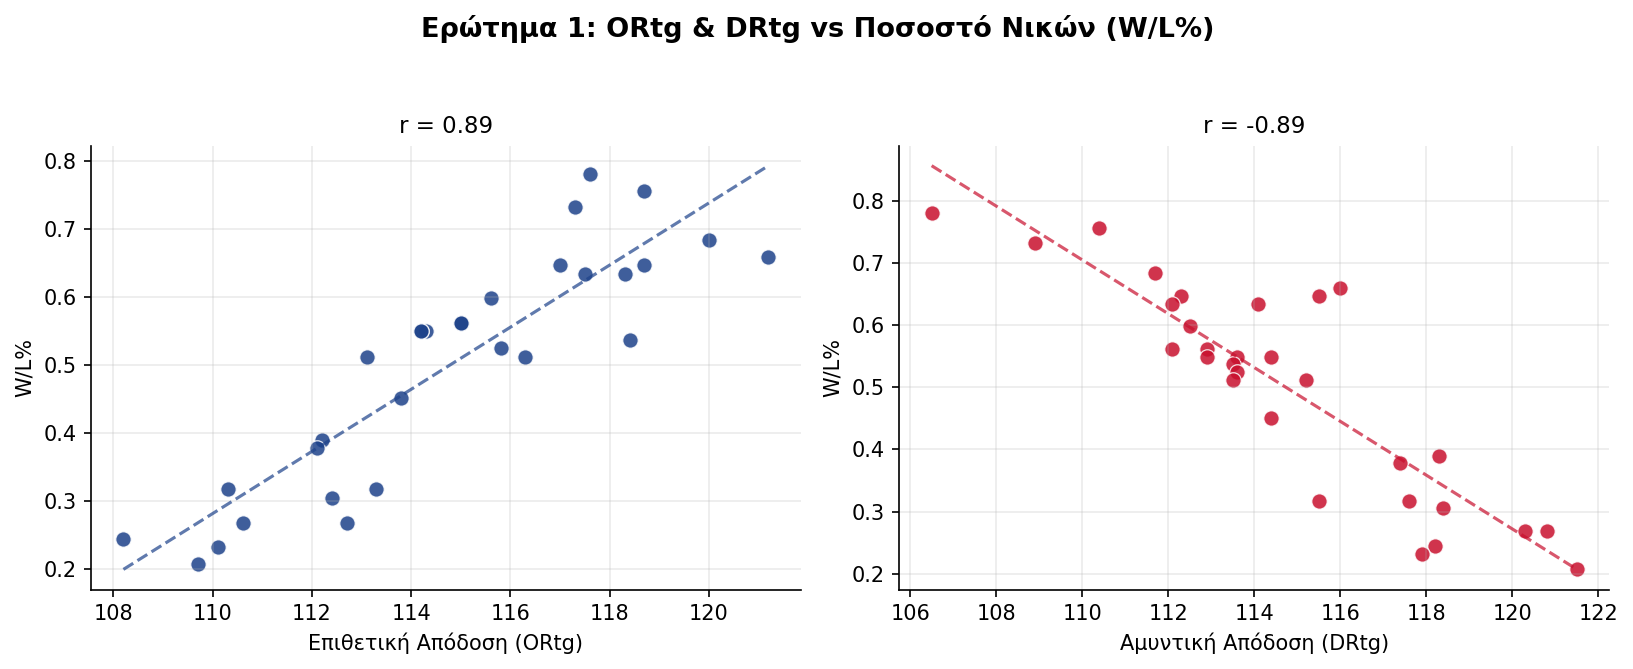
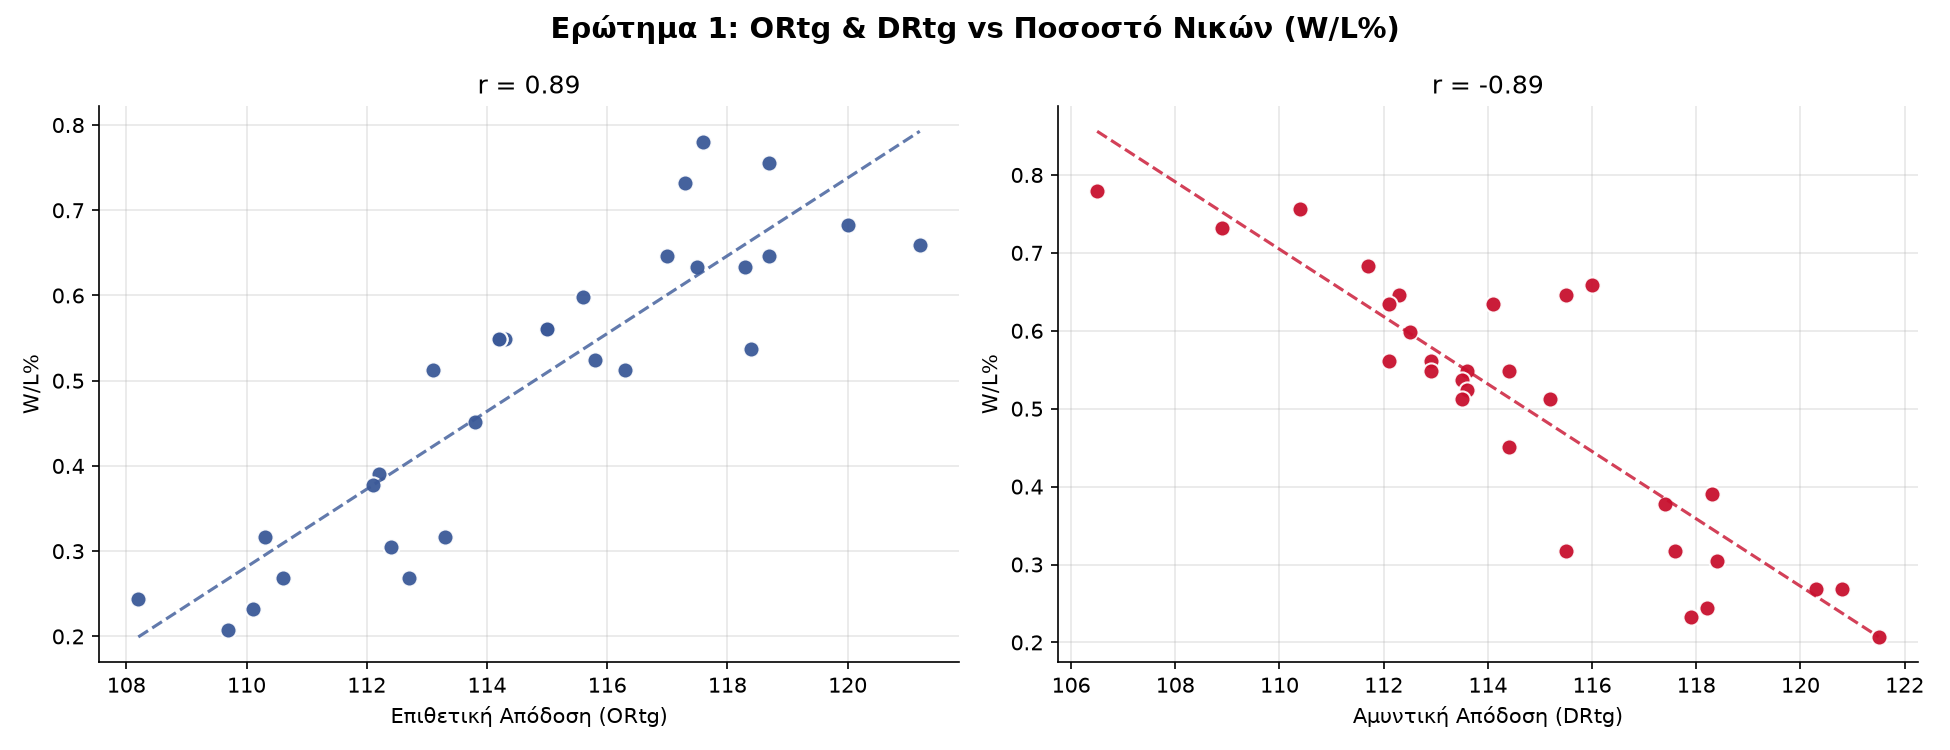
Add English charts and use them in README.en.md
Charts regenerated from the real 2025-26 data with make_plots.py.

Claude-Session: https://claude.ai/code/session_01NeFUhLyvESqzFshEbtfSXE

diff --git a/README.en.md b/README.en.md
@@ -26,9 +26,9 @@ The results below are for the **2025-26 season** (full regular season). Reproduc
 | 2. Home vs Away | Statistically significant difference (t-test, p = 0.023) — slightly better 3P% at home (36.2% vs 35.5%) |
 | 3. Opponent strength | Statistically significant difference (ANOVA, p = 0.038) — better 3P% against weaker opponents |
 
-![ORtg & DRtg vs W/L%](q1_ortg_drtg_vs_wl.png)
-![3P% Home vs Away](q2_home_away_3pct.png)
-![3P% by Opponent Strength](q3_opponent_strength_3pct.png)
+![ORtg & DRtg vs W/L%](q1_ortg_drtg_vs_wl_en.png)
+![3P% Home vs Away](q2_home_away_3pct_en.png)
+![3P% by Opponent Strength](q3_opponent_strength_3pct_en.png)
 
 ## Project Structure
 
